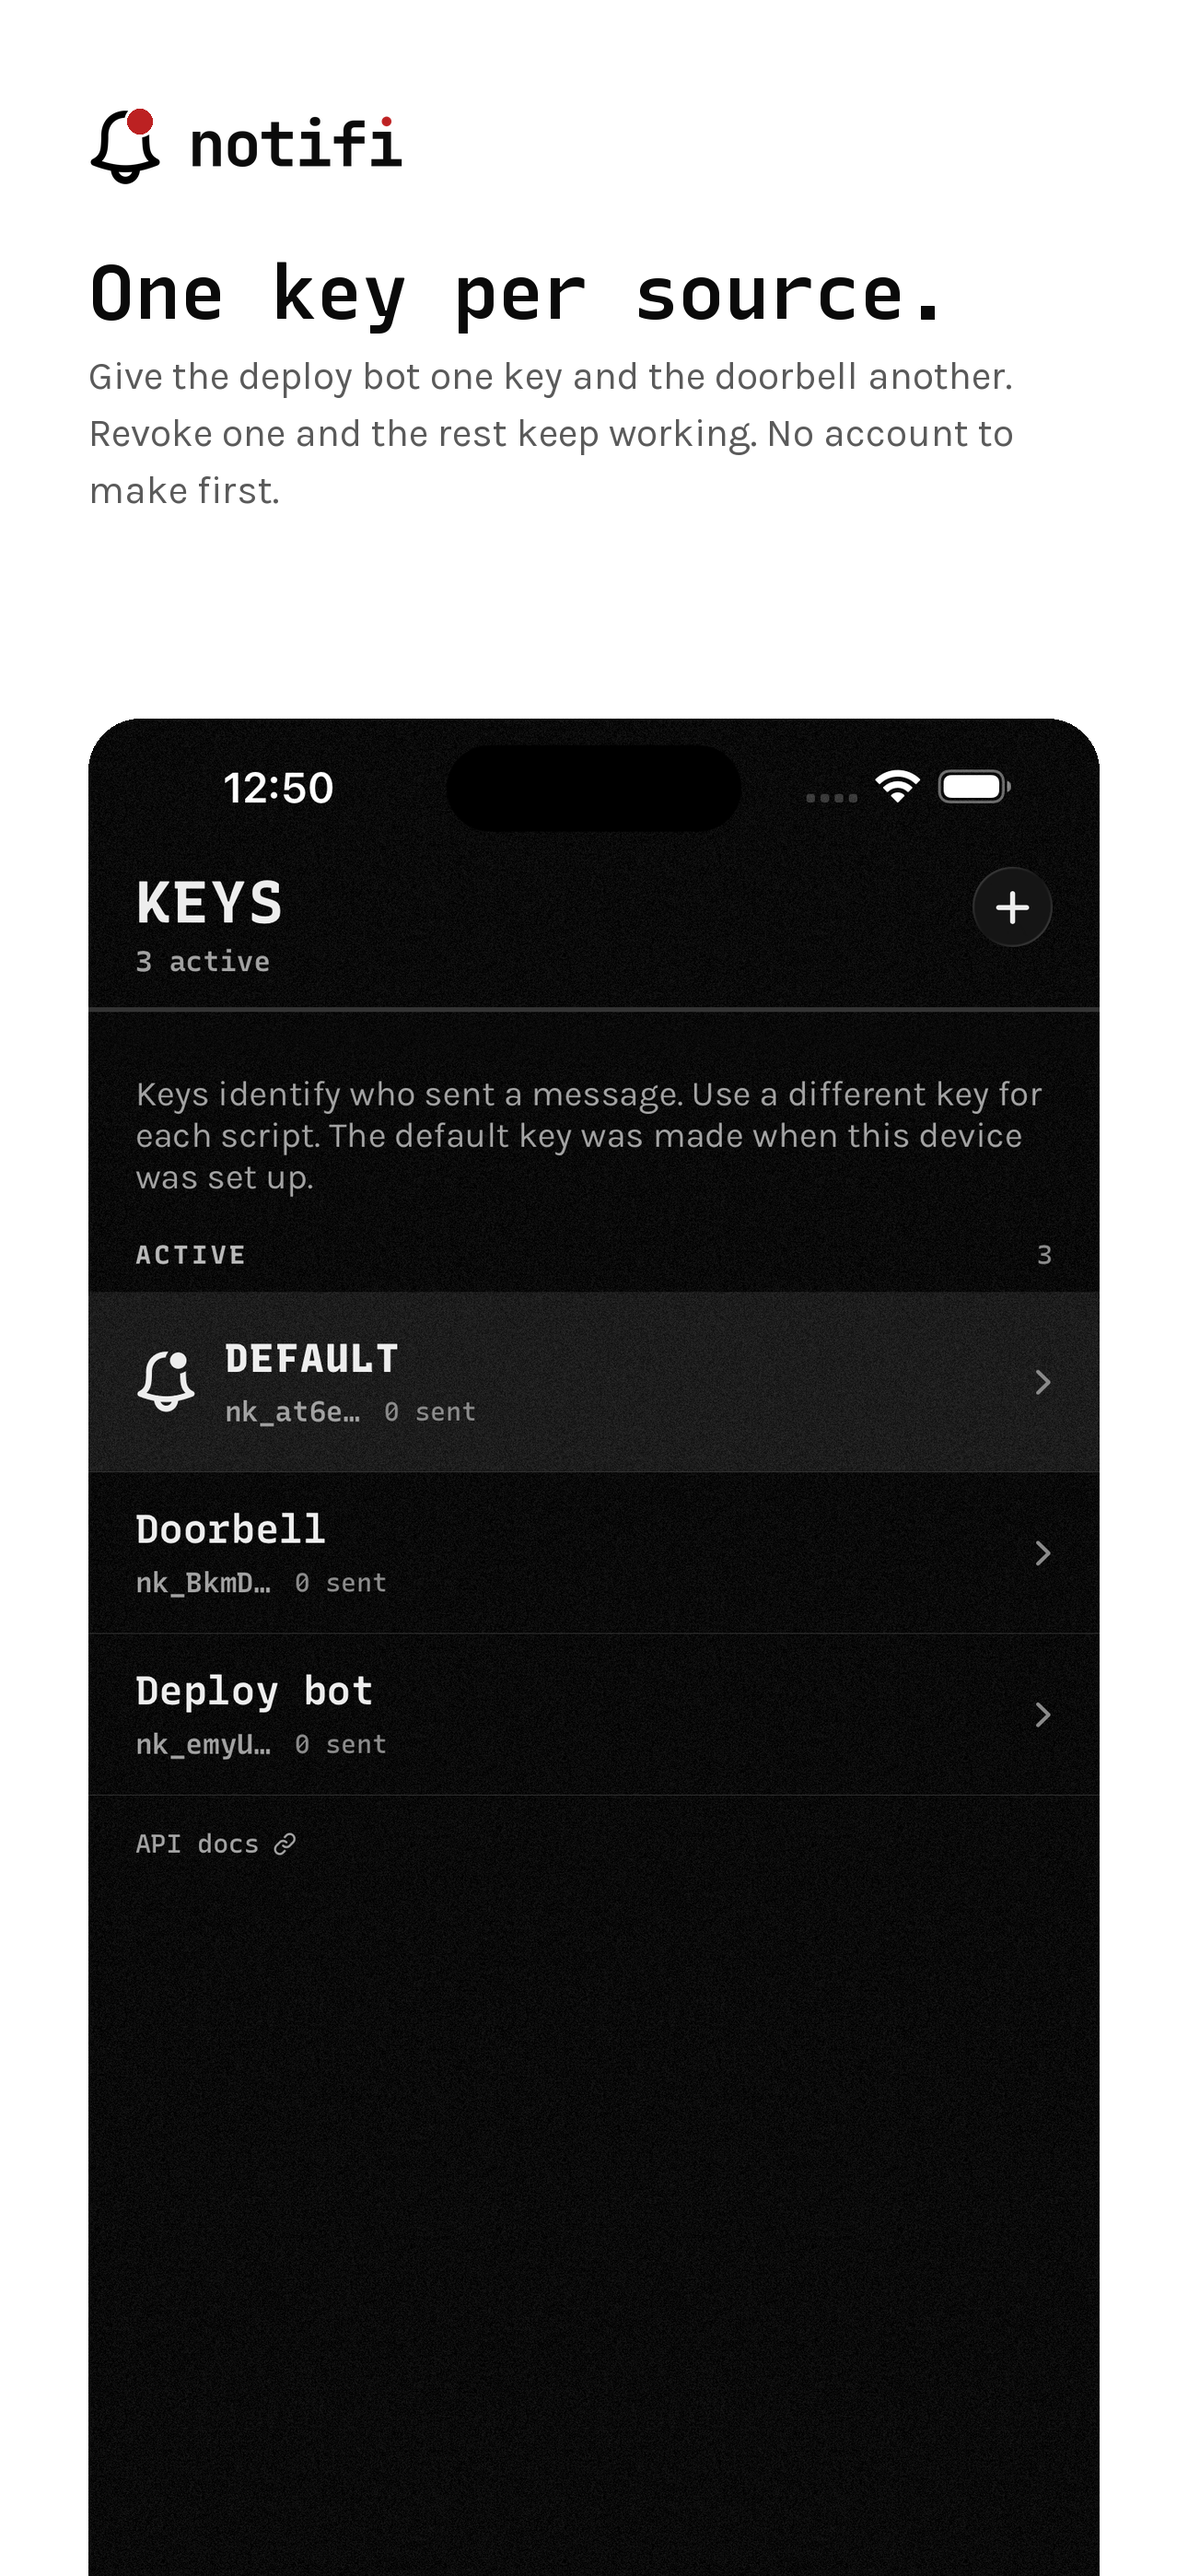
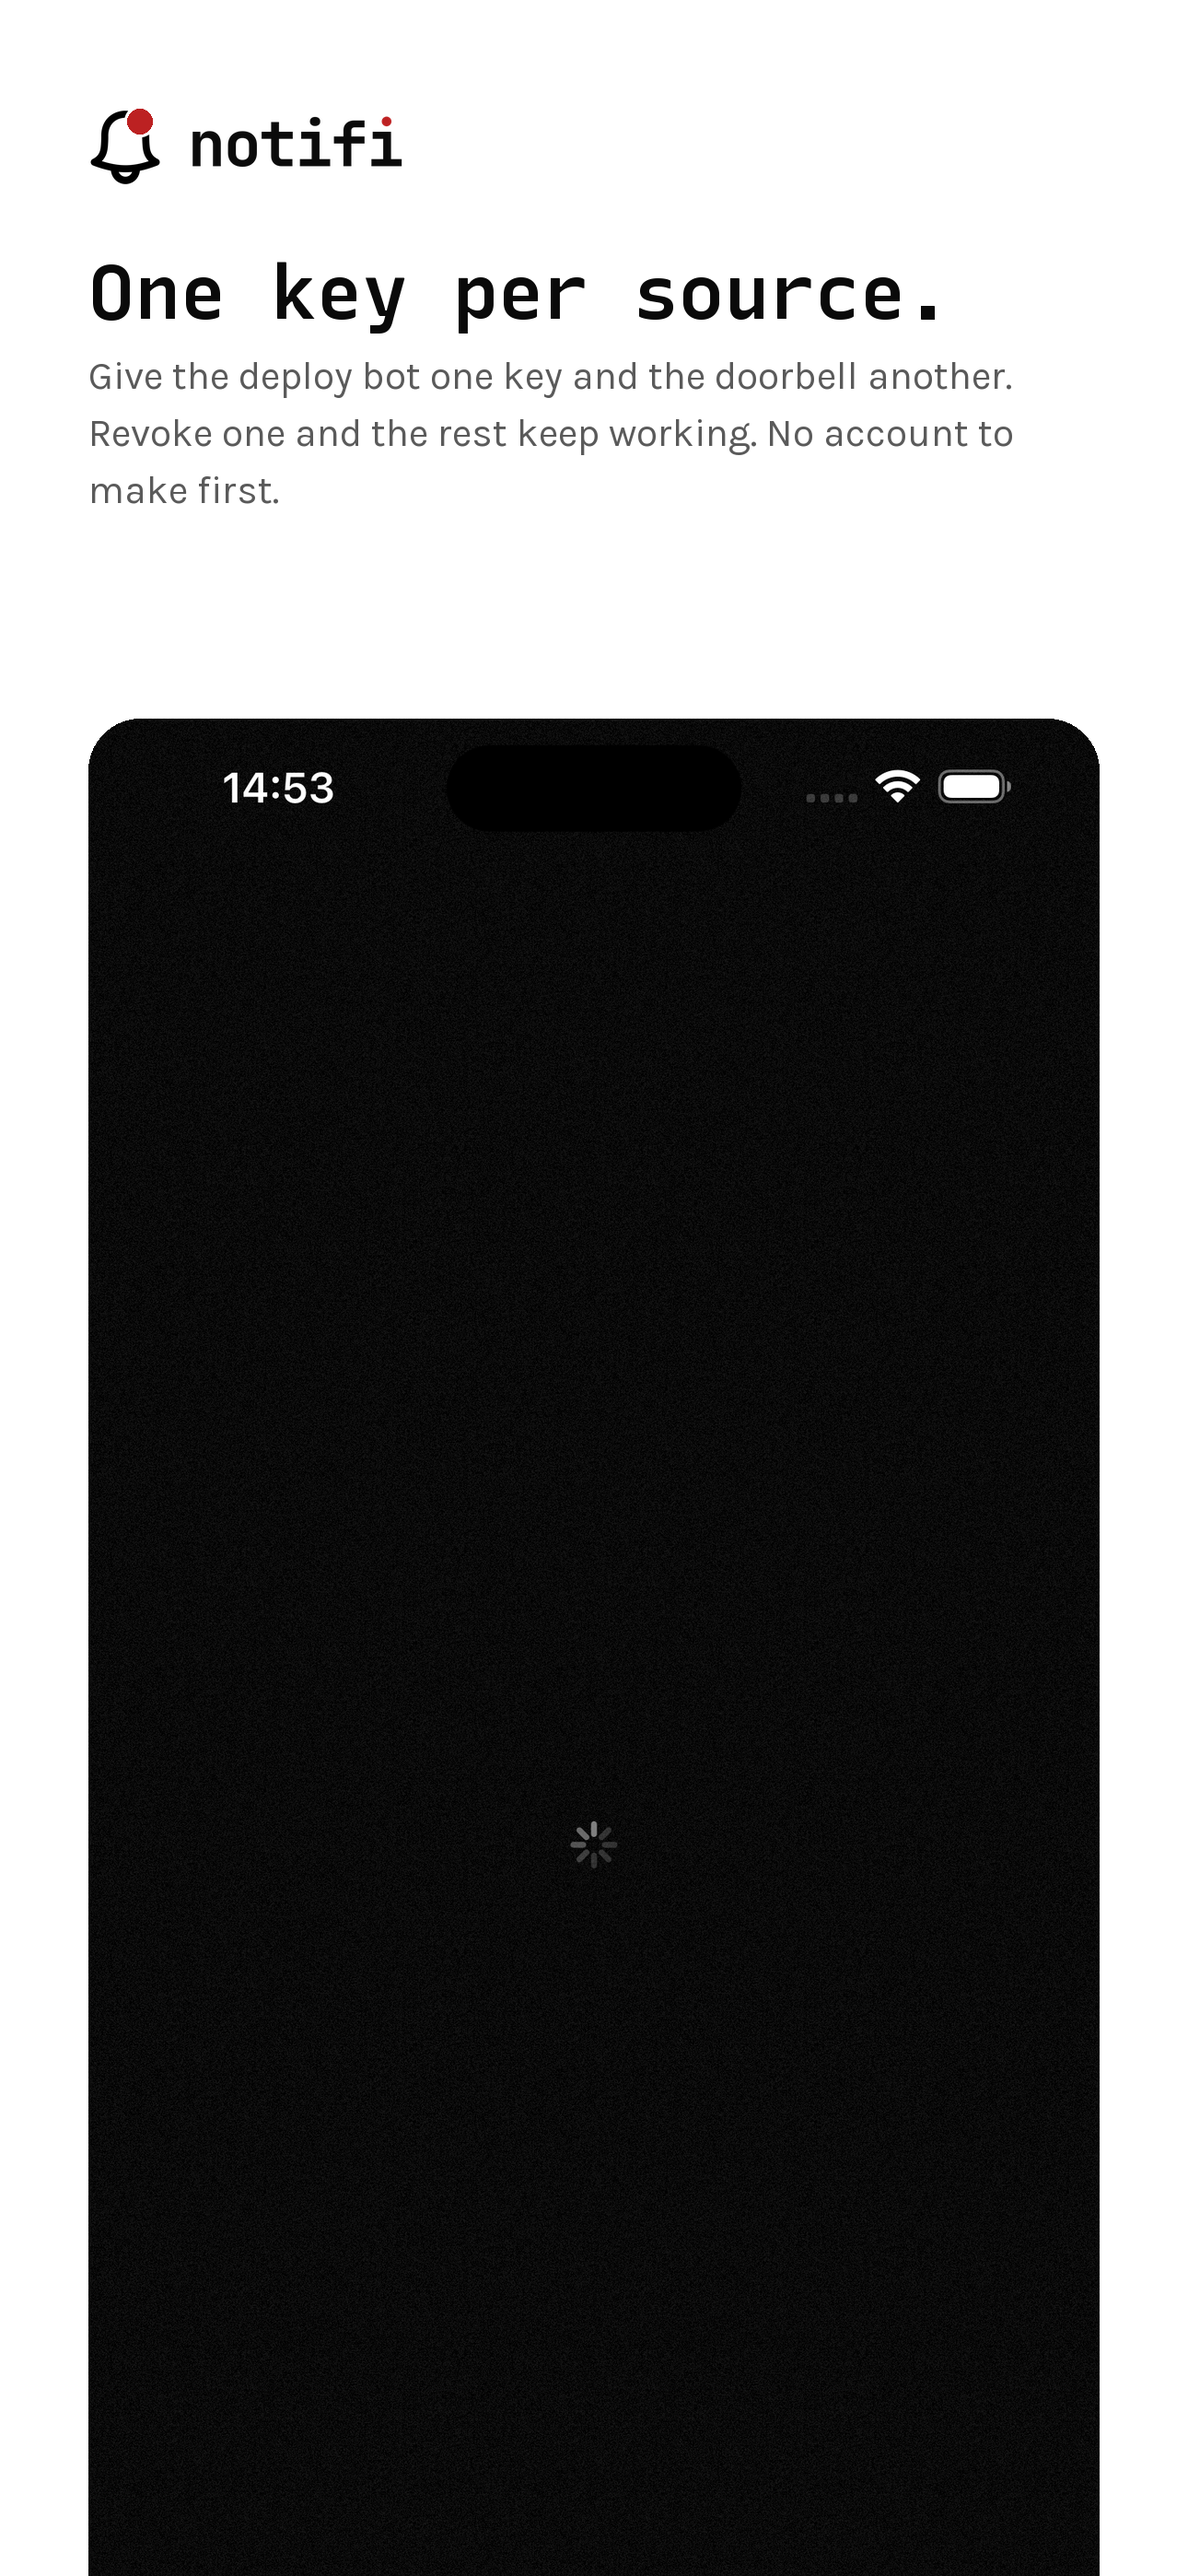
One command for the App Store screenshot sets (#149)
make appstore-shots builds, captures iPhone and iPad from the Simulator,
and renders both frame sets. The app seeds sample data and opens the
sample message from launch environment (NOTIFI_SEED_SAMPLE,
NOTIFI_OPEN_SAMPLE_MESSAGE, DEBUG only) so nothing is driven by touch —
tapping was the flaky half of doing this by hand. Also rewrites the v2.0
release notes: it is a ground-up native rewrite of the Flutter app, and
the notes now say so.

diff --git a/apps/app/Shared/Views/InboxRootView.swift b/apps/app/Shared/Views/InboxRootView.swift
@@ -3,6 +3,9 @@ import SwiftUI
 
 struct InboxRootView: View {
     @Environment(AppModel.self) private var model
+    #if DEBUG
+    @Environment(\.modelContext) private var context
+    #endif
     #if os(iOS)
     @Environment(\.horizontalSizeClass) private var sizeClass
     #endif
@@ -17,6 +20,7 @@ struct InboxRootView: View {
                 legacyTabs
             }
         }
+        .task { await shotSetup() }
         .onChange(of: model.selectedTab) { Haptics.selection() }
         .onChange(of: model.selectedTab, initial: true) { normalizeSelection() }
         .onChange(of: sizeClass) { normalizeSelection() }
@@ -40,6 +44,26 @@ struct InboxRootView: View {
             .frame(maxWidth: .infinity, maxHeight: .infinity)
 
             GeistTabBar(selection: $model.selectedTab)
+        }
+        #endif
+    }
+
+    /// The App Store screenshot script's hook. Seeding through the ••• menu
+    /// needs a tap the script would have to aim by pixel; these run the same
+    /// seed from launch environment instead, so a capture is
+    /// launch → settle → screenshot with nothing to miss. `#if DEBUG` for the
+    /// same reason as `NOTIFI_START_TAB`: it exists for the script, nothing
+    /// else may set it.
+    private func shotSetup() async {
+        #if DEBUG
+        let env = ProcessInfo.processInfo.environment
+        guard env["NOTIFI_SEED_SAMPLE"] == "1" else { return }
+        SampleData.seed(into: context, keyIDs: model.sync?.keys.map(\.id) ?? [])
+        if env["NOTIFI_OPEN_SAMPLE_MESSAGE"] == "1" {
+            // The push happens after the feed has the seeded rows, or the
+            // detail resolves an id nothing holds yet and shows "not found".
+            try? await Task.sleep(for: .milliseconds(400))
+            model.path.append(SampleData.idFloor)
         }
         #endif
     }

diff --git a/apps/app/Scripts/appstore-frames.py b/apps/app/Scripts/appstore-frames.py
@@ -2,20 +2,14 @@
 
 Same system as the site: pure black, Recursive Mono for the title, Karla for the
 description, one red accent, and the device shot bleeding off the bottom edge.
-Output is 1290x2796, the 6.9" iPhone size, which is the only set Apple now
-requires — it downscales the rest itself.
+Output is 1290x2796 (the 6.9" iPhone set), or 2048x2732 with IPAD=1 — both
+are required, because the app runs on iPad.
 
-The captures come from a Simulator run with sample data seeded:
+Normally not run by hand: `make appstore-shots` builds, captures both device
+sets from the Simulator, and runs this twice (plain, then IPAD=1). To re-render
+from existing captures:
 
-    xcodebuild -project apps/app/notifi.xcodeproj -scheme notifi-iOS \\
-      -configuration Debug -destination 'id=<udid>' DEVELOPMENT_TEAM=Z28DW76Y3W build
-    SIMCTL_CHILD_NOTIFI_SAMPLE_DATA=1 xcrun simctl launch <udid> it.notifi.notifi
-    # ••• > Seed sample data, Settings > Load images automatically on
-    xcrun simctl io <udid> screenshot shots/inbox.png     # and detail, search, settings
-
-Then:
-
-    SHOTS=shots python3 apps/app/Scripts/appstore-frames.py
+    SHOTS=<dir> python3 apps/app/Scripts/appstore-frames.py
 
 Run it from the repo root. The seeded feed points its one image at
 notifi.it/demo/latency.png, so that has to be deployed for the graph to appear.
